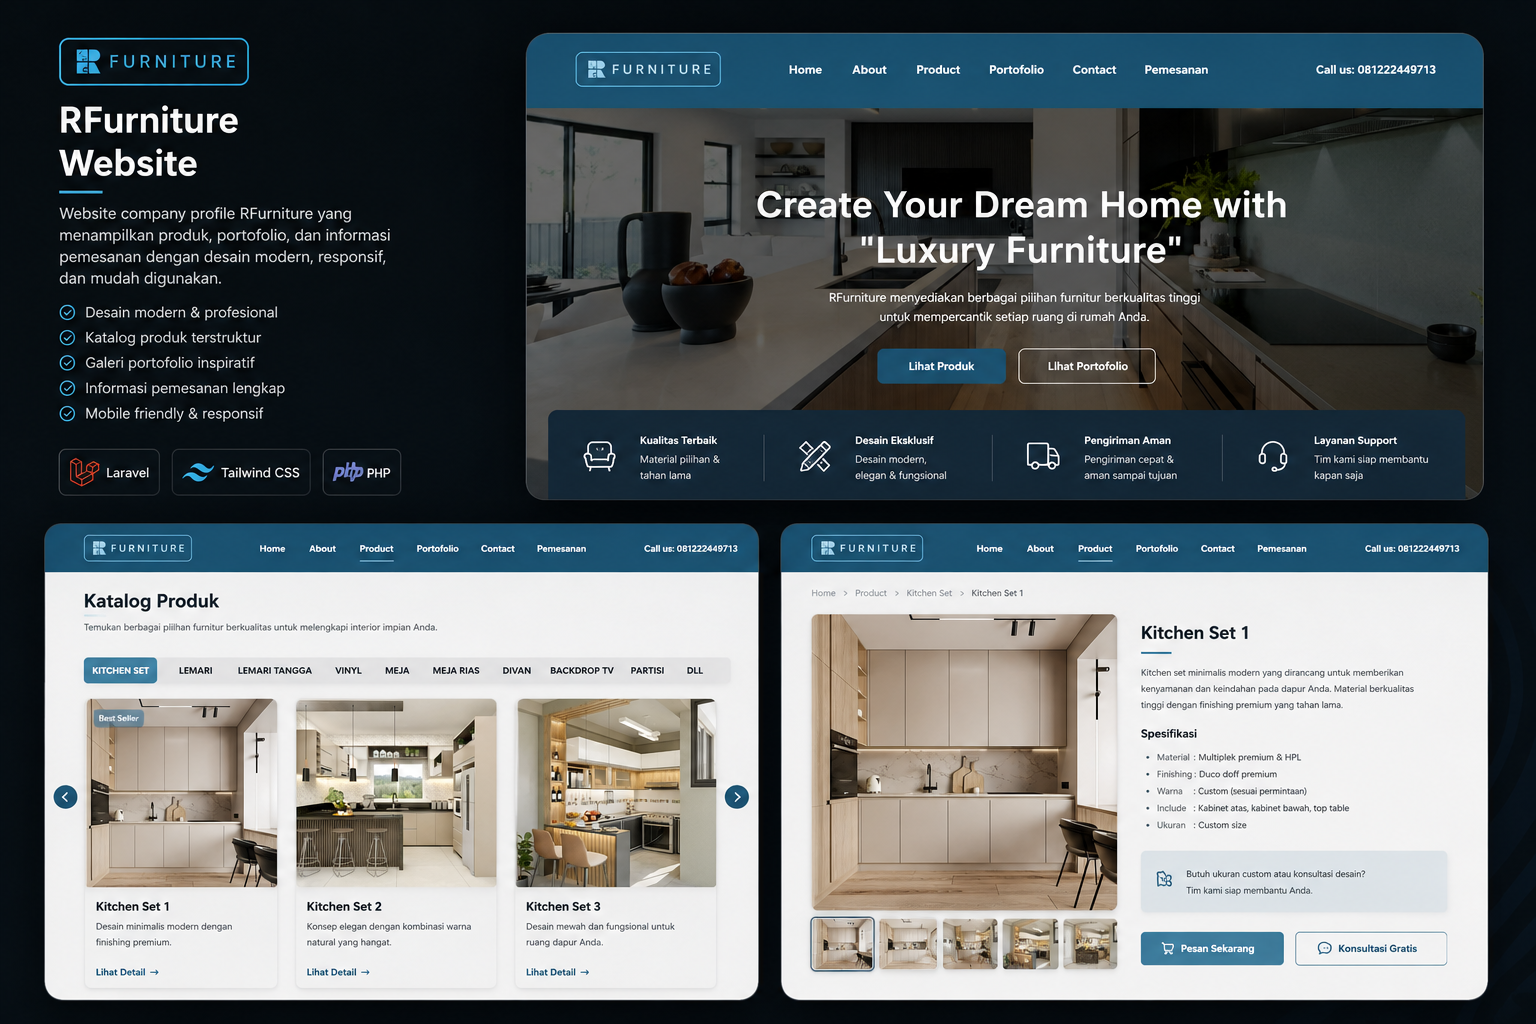
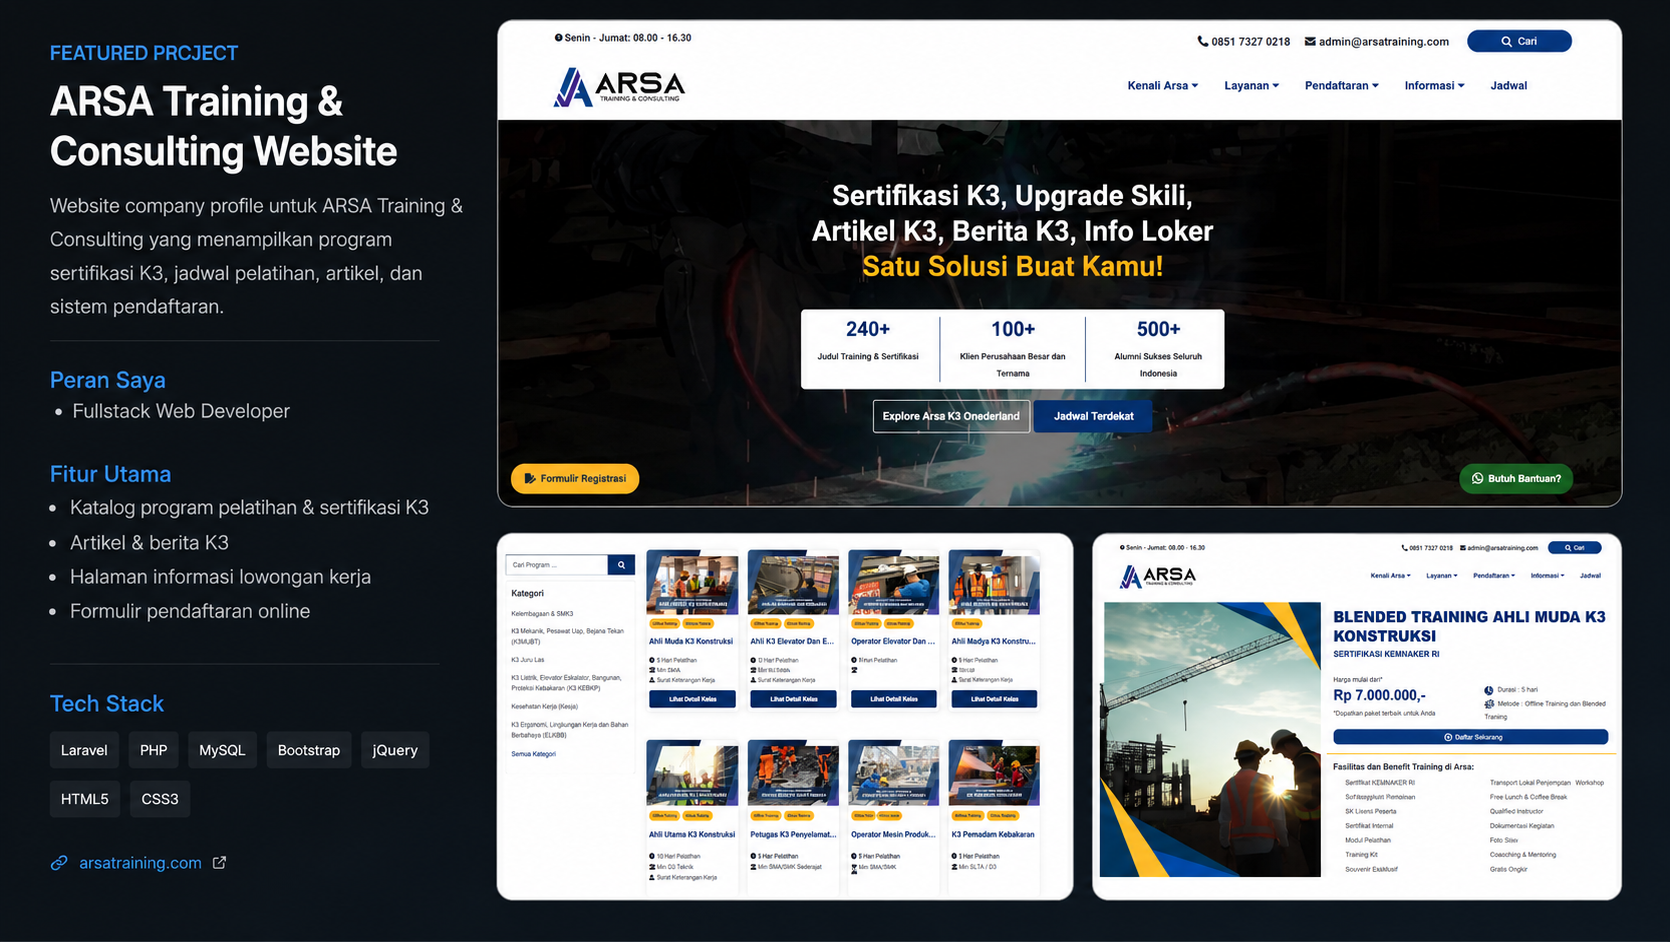
Update project details and images in data.js; replace RFurniture project with ARSA Training & Consulting website

diff --git a/src/data.js b/src/data.js
@@ -26,7 +26,6 @@ import Tools17 from "/assets/tools/php.png";
 import Tools18 from "/assets/tools/vite.png";
 import Tools19 from "/assets/tools/mysql.png";
 
-
 export const listTools = [
   {
     id: 1,
@@ -149,18 +148,18 @@ export const listProyek = [
     url: "https://intansafetyk3.com",
     dad: "200",
   },
-  
+
   {
     id: 3,
     image: Proyek3,
-    title: "RFurniture Company Profile",
+    title: "ARSA Training & Consulting Website",
     subtitle:
-      "Modern company profile website showcasing products and business information.",
+      "Corporate website for a K3 training and certification provider with program catalog, online registration, and company information.",
     fullDescription:
-      "Built a responsive website for RFurniture with an emphasis on product presentation, company branding, and user experience across desktop and mobile devices.",
-    borderColor: "#8B6B3D",
-    gradient: "linear-gradient(145deg,#8B6B3D,#000)",
-    url: "https://github.com/fahrezypurbaa/rfurniture",
+      "Developed and maintained the official website for ARSA Training & Consulting. The platform provides K3 training information, certification programs, training schedules, online registration, articles, and company profiles. Focused on building responsive interfaces, improving user experience, and ensuring the website remained easy to manage and accessible across desktop and mobile devices.",
+    borderColor: "#0F4C81",
+    gradient: "linear-gradient(145deg,#0F4C81,#000)",
+    url: "https://arsatraining.com",
     dad: "300",
   },
   {
@@ -177,14 +176,11 @@ export const listProyek = [
     dad: "400",
   },
 
-
-  
   {
     id: 5,
     image: Proyek5,
     title: "Tech Terrarium E-Commerce Website",
-    subtitle:
-      "Interactive portfolio featuring laravel and tailwind css.",
+    subtitle: "Interactive portfolio featuring laravel and tailwind css.",
     fullDescription:
       "A built with Laravel, Tailwind CSS. Features include responsive design, product showcase, and modern UI interactions.",
     borderColor: "#8B6B3D",
@@ -194,15 +190,15 @@ export const listProyek = [
   },
   {
     id: 6,
-    image: Proyek6,
-    title: "Mental Health Sentiment Analysis",
+    image: Proyek3,
+    title: "RFurniture Company Profile",
     subtitle:
-      "Research project using Support Vector Machine and Particle Swarm Optimization.",
+      "Corporate website for a professional K3 training and certification provider.",
     fullDescription:
-      "Final thesis project analyzing sentiment from mental health discussions on social media. Implemented preprocessing, TF-IDF, SVM classification, and PSO optimization to improve classification performance.",
+      "Designed and developed a responsive company profile website featuring training programs, certification services, gallery management, CTA integration, and SEO optimization to strengthen the company's digital presence.",
     borderColor: "#8B6B3D",
     gradient: "linear-gradient(145deg,#8B6B3D,#000)",
-    url: "https://github.com/fahrezypurbaa/Skripsi",
+    url: "https://github.com/fahrezypurbaa/rfurniture",
     dad: "600",
   },
 ];
